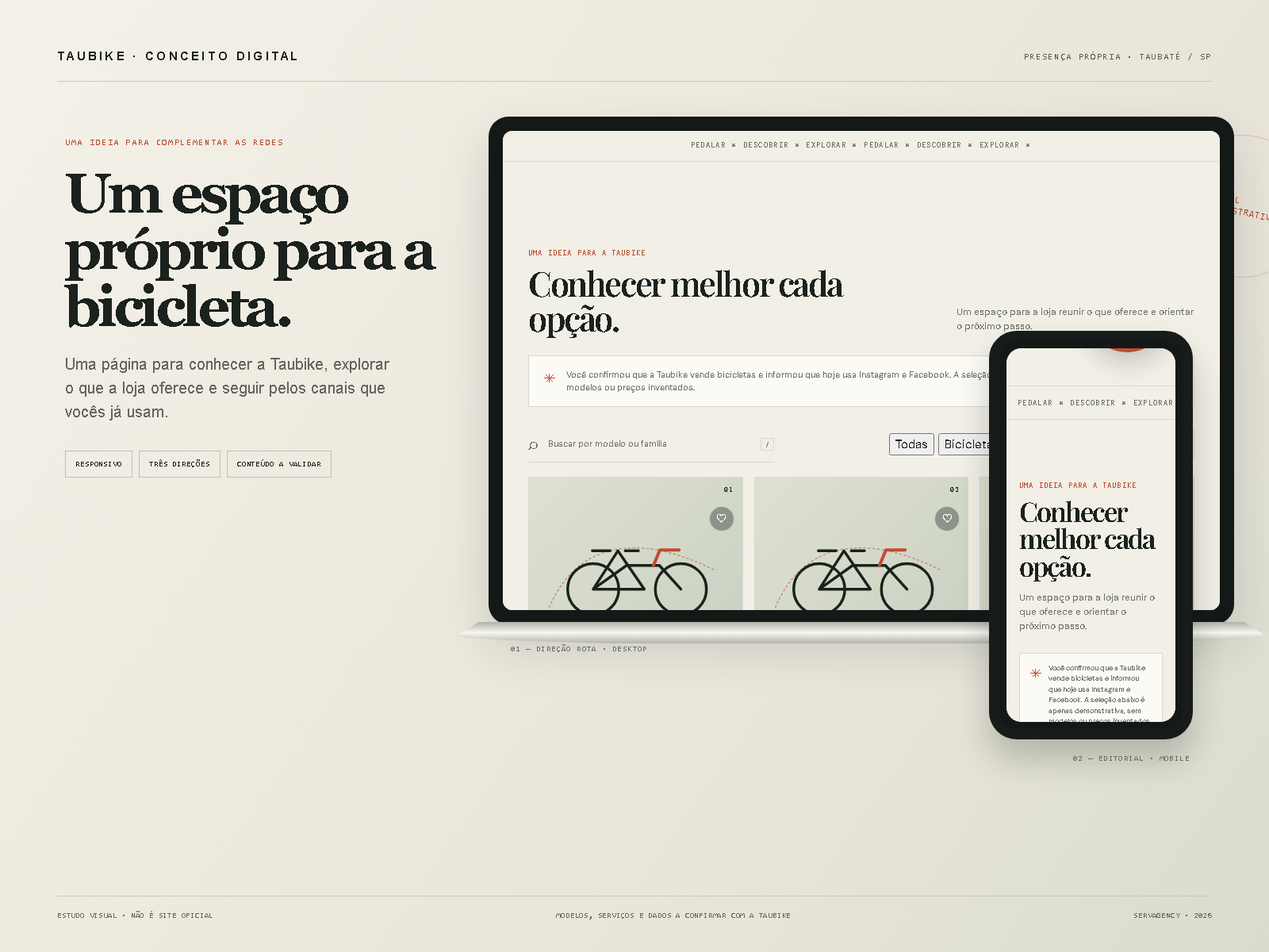
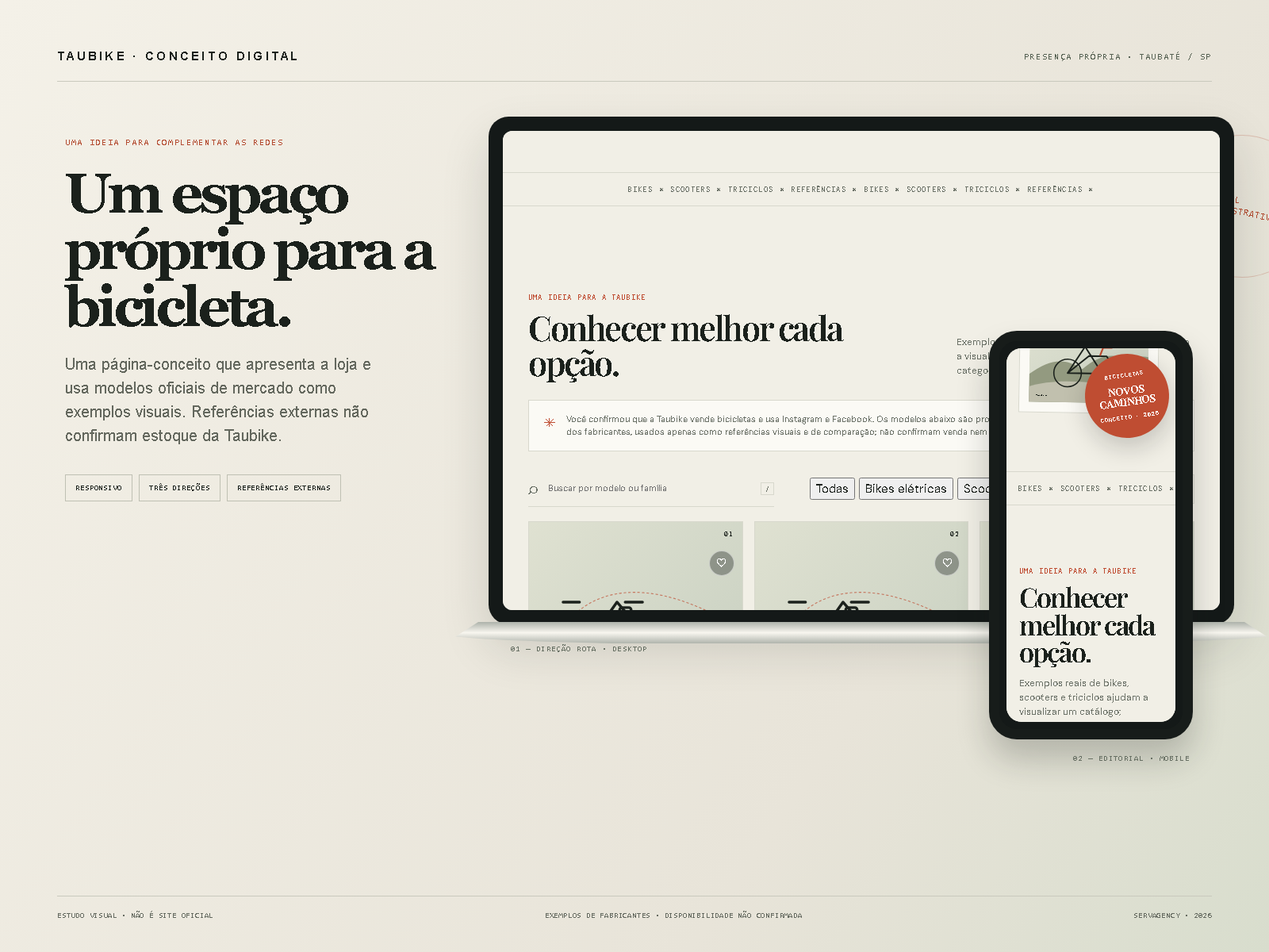
Add researched electric mobility references

diff --git a/app.js b/app.js
@@ -9,36 +9,51 @@
   const directions = isElite ? ['01 · EDITORIAL', '02 · PULSE', '03 · ESSENCIAL'] : ['01 · ROTA', '02 · CAMPO', '03 · EDITORIAL'];
   const title = isElite ? 'Elétrica.\nFeita para\no seu ritmo.' : 'Uma cidade\ninteira pela\nfrente.';
   const intro = isElite
-    ? 'Um espaço claro para conhecer as bikes elétricas e continuar a conversa com a equipe.'
-    : 'Uma ideia de espaço próprio para conhecer a Taubike e explorar as bicicletas da loja.';
+    ? 'Explore as bikes do catálogo e conheça outras categorias elétricas como referências de mercado.'
+    : 'Uma seleção de modelos reais de mobilidade elétrica para visualizar como um catálogo pode ajudar na escolha.';
   const products = isElite ? [
     { id:'falcon-pro', name:'Falcon Pro', family:'Linha Falcon', image:'assets/catalogo/falcon-pro.jpg', type:'BIKE ELÉTRICA · OFF-ROAD', price:'R$ 39.990', power:'5.000 W', speed:'95 km/h', range:'Até 120 km', battery:'72V · 35Ah', details:'No catálogo enviado: display HD multifunção, freios a disco hidráulicos, NFC, proteção IP67 e recarga informada de 3 a 4 horas.', page:'04' },
     { id:'v29-pro', name:'V29 Pro', family:'Linha V', image:'assets/catalogo/v29-pro.jpg', type:'BIKE ELÉTRICA · ARO 20 × 4', price:'R$ 9.790', power:'1.000 W', speed:'32 km/h', range:'Até 120 km', battery:'Dupla · 48V · 15,6Ah cada', details:'No catálogo enviado: display colorido, freios a disco hidráulicos, câmbio Shimano de 7 marchas e recarga informada de 5 a 8 horas.', page:'06' },
     { id:'v9-max-s', name:'V9 Max S', family:'Linha V', image:'assets/catalogo/v9-max-s.jpg', type:'BIKE ELÉTRICA · ARO 20 × 4', price:'R$ 9.790', power:'1.000 W', speed:'32 km/h', range:'Até 120 km', battery:'Dupla · 48V · 20Ah', details:'No catálogo enviado: display colorido, freios duplos hidráulicos, app Android/iOS, cartão NFC, alarme e cadeado.', page:'13' },
     { id:'y16', name:'Y16', family:'Outros modelos', image:'assets/catalogo/y16.jpg', type:'BIKE ELÉTRICA · ARO 16 × 4', price:'R$ 8.290', power:'750 W', speed:'25 km/h', range:'Até 84 km', battery:'Lítio · 15Ah', details:'No catálogo enviado: display LCD multifuncional, freios hidráulicos a óleo, cesto central, farol LED e proteção IP54.', page:'23' }
   ] : [
-    { id:'bike-01', name:'Bicicleta 01', family:'Bicicletas', type:'EXEMPLO VISUAL', price:'A confirmar', power:'A confirmar', speed:'A confirmar', range:'A confirmar', battery:'A confirmar', details:'Cartão demonstrativo. Nome, imagem e características devem vir do catálogo real da Taubike.', page:'—' },
-    { id:'bike-02', name:'Bicicleta 02', family:'Bicicletas', type:'EXEMPLO VISUAL', price:'A confirmar', power:'A confirmar', speed:'A confirmar', range:'A confirmar', battery:'A confirmar', details:'Cartão demonstrativo. Nome, imagem e características devem vir do catálogo real da Taubike.', page:'—' },
-    { id:'bike-03', name:'Bicicleta 03', family:'Bicicletas', type:'EXEMPLO VISUAL', price:'A confirmar', power:'A confirmar', speed:'A confirmar', range:'A confirmar', battery:'A confirmar', details:'Cartão demonstrativo. Nome, imagem e características devem vir do catálogo real da Taubike.', page:'—' }
+    { id:'e-vibe-lift', name:'Caloi E-Vibe Lift', family:'Bikes elétricas', type:'E-MTB ELÉTRICA', price:'', power:'500 W', speed:'Até 45 km/h', range:'Até 100 km*', battery:'48V · até 940Wh', details:'A página oficial informa motor de 500W, bateria principal de 705Wh e bateria extra de 235Wh. A autonomia de até 100 km é indicada pela Caloi conforme condições de teste e combinação das baterias.', sourceName:'Caloi', sourceUrl:'https://caloi.com/produto/e-vibe-lift/', shape:'bike', reference:true },
+    { id:'watts-bw3', name:'Watts BW3', family:'Bikes elétricas', type:'E-BIKE DOBRÁVEL', price:'', power:'1.000 W', speed:'Até 32 km/h', range:'Até 43 km*', battery:'Lítio · 10,4Ah', details:'A página oficial descreve uma e-bike dobrável aro 20, com bateria removível de 10,4Ah. A autonomia máxima informada é 43 km em pedal assistido; consulte a fabricante para condições e versão.', sourceName:'Watts', sourceUrl:'https://www.wattsmobilidade.com.br/produto-bw3', shape:'bike', reference:true },
+    { id:'watts-w1', name:'Watts W1', family:'Scooters elétricas', type:'SCOOTER ELÉTRICA', price:'', power:'2.000 W', speed:'Consulte fabricante', range:'Até 40 km*', battery:'Removível · bivolt', details:'A fabricante informa motor de 2.000W, bateria removível e autonomia de até 40 km por carga. A página também indica capacidade de carga de até 200 kg; confirme as especificações da versão atual.', sourceName:'Watts', sourceUrl:'https://www.wattsmobilidade.com.br/scooter-watts-w1-inglaterra-2000w-15a-40km-velmax-45kmh', shape:'scooter', reference:true },
+    { id:'shineray-pt3-m1', name:'Shineray PT3 M1', family:'Scooters elétricas', type:'SCOOTER ELÉTRICA · 2 LUGARES', price:'', power:'1.000 W', speed:'Até 32 km/h', range:'Até 40 km*', battery:'Íon-lítio · 60V · 20Ah', details:'A Shineray apresenta a PT3 M1 como scooter elétrica para duas pessoas. A autonomia de até 40 km é indicada em condições favoráveis e no modo de condução I.', sourceName:'Shineray', sourceUrl:'https://www.shineray.com.br/produto/pt3-m1/', shape:'scooter', reference:true },
+    { id:'shineray-pt3', name:'Shineray PT3 Triciclo', family:'Triciclos elétricos', type:'TRICICLO ELÉTRICO', price:'', power:'2.000 W', speed:'Até 45 km/h', range:'Até 40 km por bateria*', battery:'Lítio · 60V · 20Ah', details:'A página oficial indica bateria removível de 60V/20Ah, autonomia estimada de até 40 km por bateria e capacidade para uma segunda bateria. Dados sujeitos à versão e às condições de uso.', sourceName:'Shineray', sourceUrl:'https://www.shineray.com.br/produto/pt3-triciclo/', shape:'tricycle', reference:true }
   ];
+  const marketReferences = isElite ? [
+    { name:'Watts BW3', category:'E-bike dobrável', specs:'1.000 W · até 43 km · até 32 km/h', description:'Referência externa para uma categoria dobrável, não confirmada no estoque da Elite.', sourceName:'Watts', sourceUrl:'https://www.wattsmobilidade.com.br/produto-bw3', shape:'bike' },
+    { name:'Watts W1', category:'Scooter elétrica', specs:'2.000 W · até 40 km por carga', description:'Exemplo de outra categoria de mobilidade; não representa produto anunciado pela Elite.', sourceName:'Watts', sourceUrl:'https://www.wattsmobilidade.com.br/scooter-watts-w1-inglaterra-2000w-15a-40km-velmax-45kmh', shape:'scooter' },
+    { name:'Shineray PT3 Triciclo', category:'Triciclo elétrico', specs:'2.000 W · até 45 km/h · até 40 km por bateria', description:'Referência pública para mostrar uma opção de três rodas; não confirmada como produto da Elite.', sourceName:'Shineray', sourceUrl:'https://www.shineray.com.br/produto/pt3-triciclo/', shape:'tricycle' }
+  ] : [];
   const familyFilters = isElite
     ? [['all','Todos'],['Linha Falcon','Linha Falcon'],['Linha V','Linha V'],['Outros modelos','Outros']]
-    : [['all','Todas'],['Bicicletas','Bicicletas']];
+    : [['all','Todas'],['Bikes elétricas','Bikes elétricas'],['Scooters elétricas','Scooters'],['Triciclos elétricos','Triciclos']];
+  const illustration = (shape='bike') => {
+    const drawings = {
+      bike:'<circle cx="118" cy="166" r="47"/><circle cx="310" cy="166" r="47"/><path d="m118 166 52-74 64 74H118l69-48h70l53 48m-222-74h-36m136 0h38"/><rect x="176" y="104" width="25" height="38" rx="5" class="battery"/>',
+      scooter:'<circle cx="111" cy="178" r="30"/><circle cx="305" cy="178" r="30"/><path d="M111 178h131l31-37h39m-102 37 7-93h45l37 93m-90-93h48m-70 93h-30"/><path d="M194 171h73l-14 12h-59z" class="battery"/>',
+      tricycle:'<circle cx="92" cy="178" r="27"/><circle cx="274" cy="178" r="27"/><circle cx="350" cy="178" r="27"/><path d="M92 178h145l37-78h58l18 78m-134 0 51-78h52m-102 0h58"/><path d="M183 84h88v45h-88z" class="battery"/>'
+    };
+    return `<svg viewBox="0 0 420 250" aria-hidden="true"><path class="orbit" d="M22 201C83 55 221 37 385 120"/>${drawings[shape]||drawings.bike}</svg>`;
+  };
   const filterButtons = familyFilters.map(([value,label], index) => `<button type="button" class="filter${index===0?' active':''}" data-filter="${value}" aria-pressed="${index===0}">${label}</button>`).join('');
   const cards = products.map((product,index) => `<article class="product-card" data-id="${product.id}" data-family="${product.family}" data-search="${`${product.name} ${product.family} ${product.type}`.toLocaleLowerCase('pt-BR')}">
-    <div class="product-visual ${product.image?'has-image':''}">${product.image?`<img src="${product.image}" alt="${product.name}, imagem do catálogo enviado pela Elite Mogi" loading="lazy">`:`<svg viewBox="0 0 420 250" aria-hidden="true"><path class="orbit" d="M22 201C83 55 221 37 385 120"/><circle cx="118" cy="161" r="56"/><circle cx="310" cy="161" r="56"/><path class="frame" d="m118 161 54-84 58 84H118l73-52h72l47 52m-155-84h-39m72 0h29"/><path class="detail" d="m250 109 14-34h42"/></svg>`}<span class="art-label">${product.image?'FOTO DO CATÁLOGO':'ILUSTRAÇÃO · EXEMPLO'}</span><span class="product-number">0${index+1}</span><button class="favorite" type="button" aria-label="Favoritar ${product.name}" aria-pressed="false">♡</button></div>
-    <div class="product-info"><div class="product-meta"><span>${product.type}</span><span>${product.image?'CATÁLOGO · PÁG. '+product.page:'A CONFIRMAR'}</span></div><h3>${product.name}</h3><div class="quick-specs"><span><small>POTÊNCIA</small><b>${product.power}</b></span><span><small>AUTONOMIA*</small><b>${product.range}</b></span></div><div class="product-bottom"><div><small>PREÇO NO CATÁLOGO</small><strong>${product.price}</strong></div><button type="button" class="detail-button" aria-label="Ver detalhes de ${product.name}">Ver detalhes ↗</button></div><button type="button" class="compare-check" aria-pressed="false">＋ Comparar</button></div>
+    <div class="product-visual ${product.image?'has-image':''}">${product.image?`<img src="${product.image}" alt="${product.name}, imagem do catálogo enviado pela Elite Mogi" loading="lazy">`:`${illustration(product.shape)}`}<span class="art-label">${product.image?'FOTO DO CATÁLOGO':'ILUSTRAÇÃO · REFERÊNCIA DE MERCADO'}</span><span class="product-number">0${index+1}</span><button class="favorite" type="button" aria-label="Favoritar ${product.name}" aria-pressed="false">♡</button></div>
+    <div class="product-info"><div class="product-meta"><span>${product.type}</span><span>${product.image?'CATÁLOGO · PÁG. '+product.page:'REFERÊNCIA · '+product.sourceName}</span></div><h3>${product.name}</h3><div class="quick-specs"><span><small>POTÊNCIA</small><b>${product.power}</b></span><span><small>AUTONOMIA*</small><b>${product.range}</b></span></div><div class="product-bottom"><div><small>${product.image?'PREÇO NO CATÁLOGO':'VALOR'}</small><strong>${product.image?product.price:'Consultar fabricante'}</strong></div><button type="button" class="detail-button" aria-label="Ver detalhes de ${product.name}">Ver detalhes ↗</button></div><button type="button" class="compare-check" aria-pressed="false">＋ Comparar</button>${product.sourceUrl?`<a class="source-link" href="${product.sourceUrl}" target="_blank" rel="noopener noreferrer">Fonte oficial · ${product.sourceName} ↗</a>`:''}</div>
   </article>`).join('');
-
+  const marketCards = marketReferences.map(product => `<article class="reference-card"><div class="reference-visual">${illustration(product.shape)}<span>REFERÊNCIA EXTERNA · NÃO CONFIRMADA NO ESTOQUE ELITE</span></div><div class="reference-copy"><p class="eyebrow">${product.category}</p><h3>${product.name}</h3><strong>${product.specs}</strong><p>${product.description}</p><a href="${product.sourceUrl}" target="_blank" rel="noopener noreferrer">Ver fonte oficial · ${product.sourceName} ↗</a></div></article>`).join('');
   app.innerHTML = `
     <div class="concept-bar"><span><i></i> CONCEITO VISUAL · NÃO É SITE OFICIAL</span><div class="directions" role="group" aria-label="Escolher direção visual">${directions.map((d,i)=>`<button type="button" data-theme="${i}" aria-pressed="${i===0}">${d}</button>`).join('')}</div></div>
-    <div class="concept-note"><strong>PRÉVIA DEMONSTRATIVA</strong><span>${isElite?'Fotos e informações transcritas do catálogo enviado · preço e estoque a confirmar':'Produtos e características são exemplos · conteúdo real a confirmar com a loja'}</span></div>
+    <div class="concept-note"><strong>PRÉVIA DEMONSTRATIVA</strong><span>${isElite?'Catálogo enviado pela Elite + referências externas identificadas separadamente · preço e estoque a confirmar':'Referências reais de fabricantes · disponibilidade na Taubike não confirmada'}</span></div>
     <header class="site-header"><a href="#top" class="wordmark">${brand}<sup>®</sup></a><nav aria-label="Navegação"><a href="#modelos">${isElite?'Modelos':'Bicicletas'}</a><a href="#ideia">A ideia</a><a href="#contato">Contato</a></nav><a class="social-link" href="${instagram}" target="_blank" rel="noreferrer">Instagram <span>↗</span></a><button class="menu-button" aria-label="Abrir menu" aria-expanded="false">☰</button></header>
     <main id="top">
-      <section class="hero"><div class="hero-copy"><div class="hero-kicker"><span>UMA PÁGINA PRÓPRIA</span><span>${city}</span></div><p class="eyebrow">${isElite?'MOBILIDADE ELÉTRICA':'BICICLETARIA'}</p><h1>${title.replaceAll('\n','<br>')}</h1><p class="hero-intro">${intro}</p><div class="hero-actions"><a href="#modelos" class="button dark">${isElite?'Explorar modelos':'Explorar bicicletas'} <span>↘</span></a><a href="${instagram}" class="button outline" target="_blank" rel="noreferrer">Acessar Instagram <span>↗</span></a></div><div class="hero-caption"><span>✳</span><span>${isElite?'A equipe ajuda a comparar e confirmar cada modelo.':'Instagram e Facebook seguem ligados ao atendimento da loja.'}</span></div></div>
+      <section class="hero"><div class="hero-copy"><div class="hero-kicker"><span>UMA PÁGINA PRÓPRIA</span><span>${city}</span></div><p class="eyebrow">${isElite?'MOBILIDADE ELÉTRICA':'BICICLETARIA · REFERÊNCIAS DE MOBILIDADE'}</p><h1>${title.replaceAll('\n','<br>')}</h1><p class="hero-intro">${intro}</p><div class="hero-actions"><a href="#modelos" class="button dark">${isElite?'Explorar modelos':'Explorar referências'} <span>↘</span></a><a href="${instagram}" class="button outline" target="_blank" rel="noreferrer">Acessar Instagram <span>↗</span></a></div><div class="hero-caption"><span>✳</span><span>${isElite?'A equipe ajuda a comparar e confirmar cada modelo.':'Redes sociais da loja e exemplos de fabricantes aparecem em áreas distintas.'}</span></div></div>
         <div class="hero-scene"><div class="scene-frame"><svg viewBox="0 0 760 550" role="img" aria-label="Ilustração conceitual de uma bicicleta"><defs><linearGradient id="backdrop" x1="0" y1="0" x2="1" y2="1"><stop offset="0" stop-color="var(--scene-a)"/><stop offset="1" stop-color="var(--scene-b)"/></linearGradient></defs><rect width="760" height="550" fill="url(#backdrop)"/><circle class="sun" cx="574" cy="118" r="55"/><path class="hills" d="M0 373c130-96 222-111 339-36 104-98 216-114 303-55 47-31 83-37 118-28v296H0Z"/><path class="ground" d="M0 453c161-55 397-47 760 17v80H0Z"/><g class="bike"><circle cx="245" cy="363" r="88"/><circle cx="559" cy="363" r="88"/><path d="m245 363 109-170 113 170H245l135-111h113l66 111m-277-170h-69m164 0h45"/><path class="bike-accent" d="m452 244 18-47h55"/></g><text x="43" y="62" class="scene-label">${isElite?'ELITE · 01':'TAUBIKE · 01'}</text><text x="43" y="510" class="scene-sub">${city}</text></svg><span class="scene-index">FIG. 01 · ILUSTRAÇÃO DE CONCEITO</span></div><div class="roundel"><small>${isElite?'CATÁLOGO':'BICICLETAS'}</small><b>${isElite?'ESCOLHA\nCOM CALMA':'NOVOS\nCAMINHOS'}</b><small>CONCEITO · 2026</small></div></div></section>
-      <div class="ticker" aria-hidden="true">${isElite?'DESCOBRIR ✳ COMPARAR ✳ CONVERSAR ✳ ':'PEDALAR ✳ DESCOBRIR ✳ EXPLORAR ✳ '.repeat(2)}</div>
-      <section class="models" id="modelos"><div class="section-top"><div><p class="eyebrow">${isElite?'A PARTIR DO CATÁLOGO COMPARTILHADO':'UMA IDEIA PARA A TAUBIKE'}</p><h2>${isElite?'Apresentar. Comparar. Perguntar.':'Conhecer melhor cada opção.'}</h2></div><p>${isElite?'Explore modelos do material enviado e prepare uma consulta mais objetiva com a equipe.':'Um espaço para a loja reunir o que oferece e orientar o próximo passo.'}</p></div><div class="factual-note"><span>✳</span><p>${isElite?'Imagens e dados desta seleção foram transcritos do catálogo PDF recebido em 27/10/2026. Preços e condições constam da edição identificada como novembro de 2026; confirme com a equipe antes de divulgar como oferta atual.':'Você confirmou que a Taubike vende bicicletas e informou que hoje usa Instagram e Facebook. A seleção abaixo é apenas demonstrativa, sem modelos ou preços inventados.'}</p></div><div class="catalog-tools"><label class="search"><span aria-hidden="true">⌕</span><input type="search" id="search" placeholder="Buscar por modelo ou família" aria-label="Buscar modelos"><kbd>/</kbd></label><div class="filters" role="group" aria-label="Filtrar por família">${filterButtons}</div><button type="button" class="compare-open" id="compare-open">Comparar <span id="compare-count">0</span></button></div><div class="product-grid" id="product-grid">${cards}</div><p class="fine-print">${isElite?'*Autonomia indicada no catálogo; alcance real varia com condições de uso. Confirme preço, versão, estoque e condições com a loja.':'Os cartões são exemplos de estrutura, não representam modelos reais da Taubike.'}</p></section>
+      <div class="ticker" aria-hidden="true">${isElite?'DESCOBRIR ✳ COMPARAR ✳ CONVERSAR ✳ ':'BIKES ✳ SCOOTERS ✳ TRICICLOS ✳ REFERÊNCIAS ✳ '.repeat(2)}</div>
+      <section class="models" id="modelos"><div class="section-top"><div><p class="eyebrow">${isElite?'A PARTIR DO CATÁLOGO COMPARTILHADO':'UMA IDEIA PARA A TAUBIKE'}</p><h2>${isElite?'Apresentar. Comparar. Perguntar.':'Conhecer melhor cada opção.'}</h2></div><p>${isElite?'Explore o catálogo enviado pela equipe e compare opções com referências públicas de outras categorias.':'Exemplos reais de bikes, scooters e triciclos ajudam a visualizar um catálogo; confirme com a loja quais categorias oferece.'}</p></div><div class="factual-note"><span>✳</span><p>${isElite?'Os quatro modelos principais vêm do PDF compartilhado pela Elite em 27/10/2026. Preços e condições aparecem na edição identificada como novembro de 2026; confirme versão, estoque e validade com a equipe.':'Você confirmou que a Taubike vende bicicletas e usa Instagram e Facebook. Os modelos abaixo são produtos reais encontrados nas páginas oficiais dos fabricantes, usados apenas como referências visuais e de comparação; não confirmam venda nem disponibilidade na Taubike.'}</p></div><div class="catalog-tools"><label class="search"><span aria-hidden="true">⌕</span><input type="search" id="search" placeholder="Buscar por modelo ou família" aria-label="Buscar modelos"><kbd>/</kbd></label><div class="filters" role="group" aria-label="Filtrar por família">${filterButtons}</div><button type="button" class="compare-open" id="compare-open">Comparar <span id="compare-count">0</span></button></div><div class="product-grid" id="product-grid">${cards}</div><p class="fine-print">${isElite?'Autonomias e especificações foram transcritas do catálogo recebido; alcance real e oferta devem ser confirmados com a loja.':'Especificações e autonomias são divulgadas pelos fabricantes e variam por versão e condições de uso. As referências não indicam estoque da Taubike.'}</p>${marketReferences.length?`<section class="market-references"><div class="section-top"><div><p class="eyebrow">PARA AMPLIAR A COMPARAÇÃO</p><h2>Outras categorias elétricas.</h2></div><p>Exemplos pesquisados em páginas oficiais. Não fazem parte do catálogo enviado pela Elite nem confirmam estoque.</p></div><div class="reference-grid">${marketCards}</div></section>`:''}</section>
       <section class="story" id="ideia"><div class="story-inner"><div class="story-mark">${isElite?'E':'T'}</div><div class="story-copy"><p class="eyebrow">COMPLEMENTA OS CANAIS ATUAIS</p><h2>${isElite?'A página ajuda na descoberta. A equipe segue junto na decisão.':'Instagram e Facebook continuam fazendo parte da experiência.'}</h2><p>${isElite?'Uma apresentação própria pode organizar os modelos e encaminhar uma consulta contextualizada, preservando o atendimento da equipe.':'A proposta é criar um ponto central para apresentar a loja e conduzir o visitante aos canais que vocês já utilizam.'}</p><a href="${instagram}" target="_blank" rel="noreferrer">Ver Instagram <span>↗</span></a></div><div class="steps"><div><b>01</b><span>Descobrir a loja</span></div><div><b>02</b><span>Explorar opções</span></div><div><b>03</b><span>Continuar a conversa</span></div></div></div></section>
       <section class="contact" id="contato"><div><p class="eyebrow">UM ESPAÇO PRÓPRIO, LIGADO À LOJA</p><h2>O próximo passo fica simples.</h2><p>${isElite?'Escolha opções e fale com a equipe para confirmar os detalhes.':'Conheça a ideia e siga pelo Instagram da Taubike.'}</p></div><div class="contact-card"><span>${city}</span><h3>${brand}</h3><p>${isElite?'Catálogo recebido; confirmar modelos, preços e disponibilidade com a equipe.':'Conceito preparado a partir da confirmação de que a Taubike vende bicicletas.'}</p><a class="button dark" href="${isElite?whatsapp:instagram}" target="_blank" rel="noreferrer">${isElite?'Consultar pelo WhatsApp':'Continuar no Instagram'} <span>↗</span></a><small>${isElite?'Número de WhatsApp publicado no catálogo; envio da mensagem depende da pessoa.':'Perfil informado na conversa.'}</small></div></section>
     </main>
@@ -87,7 +102,7 @@
       button.textContent = chosen ? '✓ Na comparação' : '＋ Comparar';
     });
     const chosenProducts = products.filter(product => selected.has(product.id));
-    document.querySelector('#compare-content').innerHTML = chosenProducts.length ? `<div class="compare-table"><div class="compare-row compare-head-row"><b>MODELO</b>${chosenProducts.map(product=>`<b>${product.name}</b>`).join('')}</div>${[['PREÇO','price'],['POTÊNCIA','power'],['VELOCIDADE INDICADA','speed'],['AUTONOMIA INDICADA','range'],['BATERIA','battery']].map(([label,key])=>`<div class="compare-row"><span>${label}</span>${chosenProducts.map(product=>`<span>${product[key]}</span>`).join('')}</div>`).join('')}</div>` : '<p class="empty-compare">Escolha até três modelos no catálogo para comparar.</p>';
+    document.querySelector('#compare-content').innerHTML = chosenProducts.length ? `<div class="compare-table"><div class="compare-row compare-head-row"><b>MODELO</b>${chosenProducts.map(product=>`<b>${product.name}</b>`).join('')}</div>${[['PREÇO','price'],['POTÊNCIA','power'],['VELOCIDADE INDICADA','speed'],['AUTONOMIA INDICADA','range'],['BATERIA','battery']].map(([label,key])=>`<div class="compare-row"><span>${label}</span>${chosenProducts.map(product=>`<span>${key==='price'&&product.reference?'Consultar fabricante':product[key]||'Não informado'}</span>`).join('')}</div>`).join('')}</div>` : '<p class="empty-compare">Escolha até três modelos no catálogo para comparar.</p>';
     const message = isElite ? `Olá! Gostaria de tirar uma dúvida sobre ${chosenProducts.map(product=>product.name).join(', ') || 'os modelos do catálogo'}.` : '';
     document.querySelector('#selection-contact').href = isElite ? `${whatsapp}?text=${encodeURIComponent(message)}` : instagram;
   };
@@ -115,8 +130,9 @@
   const dialogContent = document.querySelector('#dialog-content');
   document.querySelectorAll('.detail-button').forEach(button => button.addEventListener('click', () => {
     const product = products.find(item => item.id === button.closest('.product-card').dataset.id);
-    const imageMarkup = product.image ? `<img class="dialog-product-image" src="${product.image}" alt="${product.name}, foto do catálogo Elite Mogi">` : `<div class="dialog-illustration">BICICLETA · EXEMPLO VISUAL</div>`;
-    dialogContent.innerHTML = `<div class="dialog-layout">${imageMarkup}<div><p class="eyebrow">${product.type}</p><h2>${product.name}</h2><p class="dialog-price">${product.price}<small>${isElite?'valor indicado no catálogo · confirmar':'a confirmar com a loja'}</small></p><div class="dialog-specs"><div><span>Potência</span><b>${product.power}</b></div><div><span>Velocidade indicada</span><b>${product.speed}</b></div><div><span>Autonomia indicada</span><b>${product.range}</b></div><div><span>Bateria</span><b>${product.battery}</b></div></div><p class="dialog-description">${product.details}</p><p class="dialog-source">${isElite?`Fonte: catálogo enviado pela equipe, página ${product.page}. Confirme versão, preço, estoque e condições diretamente com a loja.`:'Exemplo demonstrativo; os dados reais precisam ser confirmados com a Taubike.'}</p><a class="button dark" href="${isElite?`${whatsapp}?text=${encodeURIComponent(`Olá! Gostaria de saber mais sobre ${product.name}.`)}`:instagram}" target="_blank" rel="noreferrer">${isElite?'Perguntar sobre este modelo':'Acessar Instagram'} <span>↗</span></a></div></div>`;
+    const imageMarkup = product.image ? `<img class="dialog-product-image" src="${product.image}" alt="${product.name}, foto do catálogo Elite Mogi">` : `<div class="dialog-illustration">ILUSTRAÇÃO DE REFERÊNCIA</div>`;
+    const productSource = product.sourceUrl ? `<a href="${product.sourceUrl}" target="_blank" rel="noopener noreferrer">Fonte oficial: ${product.sourceName} ↗</a>` : `Fonte: catálogo enviado pela equipe, página ${product.page}.`;
+    dialogContent.innerHTML = `<div class="dialog-layout">${imageMarkup}<div><p class="eyebrow">${product.type}</p><h2>${product.name}</h2><p class="dialog-price">${product.reference?'Preço não incluído':product.price}<small>${product.reference?'consulte o fabricante; referência externa, não confirma estoque':isElite?'valor indicado no PDF recebido · confirmar validade':'a confirmar com a loja'}</small></p><div class="dialog-specs"><div><span>Potência</span><b>${product.power}</b></div><div><span>Velocidade indicada</span><b>${product.speed}</b></div><div><span>Autonomia indicada</span><b>${product.range}</b></div><div><span>Bateria</span><b>${product.battery}</b></div></div><p class="dialog-description">${product.details}</p><p class="dialog-source">${product.reference?'Referência de mercado pesquisada em página oficial. Não confirma venda ou disponibilidade na loja. ':isElite?`Confirme versão, preço, estoque e condições diretamente com a equipe. `:'Referência de fabricante; disponibilidade na Taubike não confirmada. '}${productSource}</p><a class="button dark" href="${isElite?`${whatsapp}?text=${encodeURIComponent(`Olá! Gostaria de saber mais sobre ${product.name}.`)}`:instagram}" target="_blank" rel="noreferrer">${isElite?'Perguntar à Elite sobre o catálogo':'Acessar Instagram da Taubike'} <span>↗</span></a></div></div>`;
     dialog.showModal();
   }));
   document.querySelector('.dialog-close').addEventListener('click', () => dialog.close());

diff --git a/site.css b/site.css
@@ -7,3 +7,23 @@ body[data-theme="1"] .hero{grid-template-columns:.92fr 1.08fr}body[data-theme="1
 .catalog-tools{display:flex;align-items:center;justify-content:space-between;gap:16px;margin:15px 0 18px}.catalog-tools .search{margin:0;flex:1;max-width:310px}.filters{display:flex;gap:5px;flex-wrap:wrap}.compare-open{border:1px solid var(--line);background:transparent;padding:8px 11px;font:8px var(--mono);cursor:pointer}.compare-open span{display:inline-grid;place-items:center;background:var(--accent);color:#fff;width:19px;height:19px;border-radius:50%;margin-left:5px}.product-visual{height:240px;position:relative;display:grid;place-items:center;overflow:hidden;background:linear-gradient(135deg,var(--scene-a),var(--scene-b))}.product-visual>img{width:100%;height:100%;object-fit:cover;transition:transform .5s}.product-card:hover .product-visual>img{transform:scale(1.035)}.product-visual>svg{width:90%;max-height:200px;fill:none;stroke:var(--ink);stroke-width:6;stroke-linecap:round;stroke-linejoin:round}.product-visual .orbit{stroke:var(--accent);stroke-width:2;stroke-dasharray:4 6;opacity:.7}.product-visual .frame{stroke-width:6}.product-visual .detail{stroke:var(--accent);stroke-width:7}.product-number{position:absolute;right:11px;top:10px;font:8px var(--mono);color:#fff;text-shadow:0 1px 6px #000}.product-visual:not(.has-image) .product-number{color:var(--ink);text-shadow:none}.art-label{position:absolute;left:11px;bottom:10px;background:var(--surface);color:var(--ink);padding:5px 7px;font:7px var(--mono);letter-spacing:.08em}.favorite{position:absolute;right:10px;top:36px;width:32px;height:32px;border:1px solid #ffffff88;border-radius:50%;background:#171d195c;color:#fff;font-size:19px;line-height:1;cursor:pointer}.favorite[aria-pressed="true"]{background:#bf4d32;border-color:#bf4d32}.product-meta{display:flex;justify-content:space-between;gap:8px;color:var(--accent);font:7px var(--mono);letter-spacing:.08em}.product-info{padding:16px}.product-info h3{font:600 22px/1.12 var(--serif);letter-spacing:-.035em;margin:14px 0 13px}.quick-specs{display:grid;grid-template-columns:1fr 1fr;gap:8px;margin-bottom:14px}.quick-specs span{display:flex;flex-direction:column;gap:2px;border-top:1px solid var(--line);padding-top:8px}.quick-specs small,.product-bottom small{font:7px var(--mono);letter-spacing:.06em;color:var(--muted)}.quick-specs b{font:500 12px var(--sans)}.product-bottom{display:flex;justify-content:space-between;align-items:end;gap:8px}.product-bottom>div{display:flex;flex-direction:column;gap:4px}.product-bottom strong{font:700 15px var(--sans)}.detail-button{border:0;border-bottom:1px solid var(--accent);background:transparent;padding:4px 0;font:8px var(--mono);cursor:pointer}.compare-check{width:100%;border:1px solid var(--line);background:transparent;padding:9px 10px;margin-top:13px;text-align:left;font:8px var(--mono);cursor:pointer}.compare-check.selected{background:var(--ink);border-color:var(--ink);color:var(--paper)}.compare-dock{position:fixed;z-index:10;bottom:15px;left:50%;transform:translateX(-50%);display:flex;align-items:center;gap:12px;background:var(--ink);color:var(--paper);padding:9px 12px 9px 17px;box-shadow:0 12px 35px #1015103d;font:9px var(--mono);white-space:nowrap}.compare-dock[hidden],.compare-shade[hidden]{display:none}.compare-dock button{border:1px solid #788074;background:transparent;color:inherit;padding:7px 10px;font:8px var(--mono);cursor:pointer}.compare-dock button:last-child{border:0;font-size:17px;padding:2px 6px}.compare-shade{position:fixed;z-index:11;inset:0;background:#0b100dc2}.compare-panel{position:fixed;z-index:12;top:0;right:0;bottom:0;width:min(630px,100%);background:var(--surface);border-left:1px solid var(--line);padding:25px;transform:translateX(102%);transition:transform .25s ease;display:flex;flex-direction:column;overflow:auto}.compare-panel.open{transform:translateX(0)}.panel-head{display:flex;justify-content:space-between;align-items:start;border-bottom:1px solid var(--line);padding-bottom:17px}.panel-head small{font:8px var(--mono);color:var(--accent);letter-spacing:.12em}.panel-head h2{font:600 34px var(--serif);margin:8px 0 0}.panel-head button{border:1px solid var(--line);background:transparent;width:34px;height:34px;font-size:19px;cursor:pointer}.compare-content{overflow:auto;flex:1}.compare-table{margin-top:16px;min-width:450px}.compare-row{display:grid;grid-template-columns:120px repeat(3,minmax(90px,1fr));border-bottom:1px solid var(--line)}.compare-row>*{padding:12px 8px;font-size:10px}.compare-row>span:first-child{font:7px var(--mono);color:var(--muted);letter-spacing:.05em}.compare-head-row{color:var(--accent);font:8px var(--mono)}.empty-compare{padding:20px 0;color:var(--muted);font-size:12px}.panel-bottom{border-top:1px solid var(--line);padding-top:14px}.panel-bottom p{font-size:10px;color:var(--muted)}.panel-bottom .button{width:100%}.detail-dialog{width:min(850px,calc(100% - 30px));max-height:calc(100% - 30px);padding:30px;background:var(--surface);color:var(--ink);border:1px solid var(--line)}.detail-dialog::backdrop{background:#0b100dc4}.dialog-close{float:right;width:34px;height:34px;border:1px solid var(--line);background:transparent;font-size:20px;cursor:pointer}.dialog-layout{display:grid;grid-template-columns:.88fr 1fr;gap:28px;align-items:center}.dialog-product-image{width:100%;aspect-ratio:1/1;object-fit:cover}.dialog-illustration{aspect-ratio:1/1;display:grid;place-items:center;background:var(--scene-a);color:var(--muted);font:10px var(--mono)}.dialog-layout h2{font:600 42px var(--serif);margin:8px 0}.dialog-price{font:700 20px var(--sans);margin:0}.dialog-price small{display:block;font:8px var(--mono);color:var(--muted);margin-top:3px}.dialog-specs{display:grid;grid-template-columns:1fr 1fr;gap:9px 15px;margin:20px 0}.dialog-specs div{border-top:1px solid var(--line);padding-top:7px;display:flex;flex-direction:column;gap:3px}.dialog-specs span,.dialog-source{font:8px var(--mono);color:var(--muted)}.dialog-specs b{font-size:11px}.dialog-description{font-size:10px;color:var(--muted)}.dialog-source{line-height:1.6}.dialog-layout .button{margin-top:8px}.product-card[hidden]{display:none}
 @media(max-width:900px){.catalog-tools{flex-wrap:wrap}.catalog-tools .search{max-width:none;flex-basis:100%}.filters{flex:1}.product-visual{height:215px}}
 @media(max-width:600px){.catalog-tools{gap:10px}.filters{width:100%;order:2}.compare-open{order:3}.product-visual{height:225px}.product-info h3{font-size:21px}.compare-dock{bottom:8px;width:calc(100% - 16px);justify-content:space-between;gap:5px;padding:8px 10px;font-size:8px}.compare-dock button{font-size:7px}.compare-panel{padding:18px}.panel-head h2{font-size:29px}.compare-table{min-width:430px}.detail-dialog{padding:15px}.dialog-layout{grid-template-columns:1fr;gap:16px}.dialog-product-image,.dialog-illustration{max-height:265px;aspect-ratio:1.35/1;object-fit:cover}.dialog-layout h2{font-size:34px}.dialog-specs{margin:13px 0}}
+
+/* Market references: visually distinct from the store-confirmed catalog. */
+.market-references{margin-top:82px;padding-top:38px;border-top:1px solid var(--line)}
+.reference-grid{display:grid;grid-template-columns:repeat(3,minmax(0,1fr));gap:14px}
+.reference-card{background:var(--surface);border:1px solid var(--line);min-width:0}
+.reference-visual{height:190px;position:relative;display:grid;place-items:center;overflow:hidden;background:linear-gradient(135deg,var(--scene-a),var(--scene-b))}
+.reference-visual svg{width:88%;max-height:160px;fill:none;stroke:var(--ink);stroke-width:6;stroke-linecap:round;stroke-linejoin:round}
+.reference-visual .orbit{stroke:var(--accent);stroke-width:2;stroke-dasharray:4 6;opacity:.7}
+.reference-visual .battery{fill:var(--accent);stroke:none;opacity:.82}
+.reference-visual span{position:absolute;left:10px;right:10px;bottom:10px;padding:6px;background:var(--surface);font:7px var(--mono);letter-spacing:.05em;text-align:center}
+.reference-copy{padding:17px}
+.reference-copy .eyebrow{margin:0 0 9px}
+.reference-copy h3{font:600 22px/1.12 var(--serif);margin:0 0 9px}
+.reference-copy strong{font-size:11px}
+.reference-copy>p:not(.eyebrow){font-size:10px;color:var(--muted);line-height:1.55}
+.reference-copy>a,.source-link,.dialog-source a{display:inline-block;margin-top:6px;color:var(--accent);font:8px var(--mono);text-decoration:underline;text-underline-offset:3px}
+.source-link{margin:9px 0 0}
+.reference-card .reference-copy p{min-height:0}
+@media(max-width:900px){.reference-grid{grid-template-columns:repeat(2,minmax(0,1fr))}}
+@media(max-width:600px){.reference-grid{grid-template-columns:1fr}.reference-visual{height:215px}.market-references{margin-top:55px}}

diff --git a/arte/apresentacao.html b/arte/apresentacao.html
@@ -1,0 +1,1 @@
+<!doctype html><html lang="pt-BR"><head><meta charset="utf-8"><meta name="viewport" content="width=device-width,initial-scale=1"><title>Taubike — apresentação do conceito</title><style>*{box-sizing:border-box}body{margin:0;background:#e8e4d9;color:#1b211c;font-family:Arial,sans-serif}.board{width:1600px;height:1200px;padding:62px 72px;background:linear-gradient(125deg,#f4f1e8 0%,#e8e4d9 70%,#d8ddcd 100%);position:relative;overflow:hidden}.head{display:flex;justify-content:space-between;align-items:center;border-bottom:1px solid #c9c9bd;padding-bottom:22px}.brand{font-size:15px;letter-spacing:.22em;font-weight:bold}.tag{font:11px monospace;letter-spacing:.15em;color:#586354}.main{display:grid;grid-template-columns:500px 1fr;gap:44px;margin-top:44px}.intro{padding:26px 10px}.eyebrow{font:11px monospace;letter-spacing:.15em;color:#b44d32}.intro h1{font:600 70px/1.02 Georgia,serif;letter-spacing:-.06em;margin:22px 0}.intro p{font-size:20px;line-height:1.5;color:#64685e;max-width:410px}.chips{display:flex;gap:8px;margin-top:34px}.chips span{border:1px solid #bfc0b3;padding:10px 12px;font:10px monospace;letter-spacing:.09em}.screen-area{position:relative;height:830px}.laptop{position:absolute;left:0;top:0;width:940px;height:640px;background:#141918;border-radius:25px;padding:18px;box-shadow:0 28px 60px #171d1928}.laptop iframe{width:100%;height:100%;border:0;background:#f1efe6;border-radius:12px}.base{position:absolute;top:637px;left:-55px;width:1050px;height:30px;background:linear-gradient(#adb2aa,#f8f6ef 45%,#a0a69e);clip-path:polygon(4% 0,96% 0,100% 90%,0 90%);border-radius:0 0 50% 50%}.phone{position:absolute;right:24px;top:270px;width:257px;height:515px;border:13px solid #171c1a;border-radius:35px;background:#141918;padding:9px;box-shadow:0 25px 40px #171d1938}.phone iframe{width:100%;height:100%;border:0;border-radius:19px;background:#f1efe6}.phone-label,.desktop-label{font:10px monospace;letter-spacing:.14em;color:#687064}.desktop-label{position:absolute;top:665px;left:28px}.phone-label{position:absolute;right:28px;top:803px}.foot{position:absolute;left:72px;right:72px;bottom:40px;border-top:1px solid #c9c9bd;padding-top:18px;display:flex;justify-content:space-between;font:10px monospace;letter-spacing:.08em;color:#666b61}.mark{position:absolute;width:180px;height:180px;border:1px solid #b44d3240;border-radius:50%;right:-56px;top:170px;display:grid;place-items:center;color:#b44d32;font:12px monospace;transform:rotate(12deg)}</style></head><body><main class="board"><header class="head"><div class="brand">TAUBIKE · CONCEITO DIGITAL</div><div class="tag">PRESENÇA PRÓPRIA · TAUBATÉ / SP</div></header><div class="main"><section class="intro"><div class="eyebrow">UMA IDEIA PARA COMPLEMENTAR AS REDES</div><h1>Um espaço próprio para a bicicleta.</h1><p>Uma página-conceito que apresenta a loja e usa modelos oficiais de mercado como exemplos visuais. Referências externas não confirmam estoque da Taubike.</p><div class="chips"><span>RESPONSIVO</span><span>TRÊS DIREÇÕES</span><span>REFERÊNCIAS EXTERNAS</span></div><div class="mark">VISUAL<br>DEMONSTRATIVO</div></section><section class="screen-area"><div class="laptop"><iframe src="../index.html?theme=0&v=market-20261027#modelos" title="Prévia desktop do conceito Taubike"></iframe></div><div class="base"></div><div class="desktop-label">01 — DIREÇÃO ROTA · DESKTOP</div><div class="phone"><iframe src="../index.html?theme=2&v=market-20261027#modelos" title="Prévia mobile do conceito Taubike"></iframe></div><div class="phone-label">02 — EDITORIAL · MOBILE</div></section></div><footer class="foot"><span>ESTUDO VISUAL · NÃO É SITE OFICIAL</span><span>EXEMPLOS DE FABRICANTES · DISPONIBILIDADE NÃO CONFIRMADA</span><span>SERVAGENCY · 2026</span></footer></main></body></html>

diff --git a/index.html b/index.html
@@ -5,10 +5,10 @@
   <meta name="theme-color" content="#e9e6db">
   <meta name="description" content="Conceito demonstrativo para uma presença digital própria da Taubike. Produtos e serviços a confirmar com a loja.">
   <title>Taubike — conceito digital</title>
-  <link rel="stylesheet" href="site.css">
+  <link rel="stylesheet" href="site.css?v=market-20261027">
 </head>
 <body data-lead="taubike">
   <div id="app"></div>
-  <script src="app.js" defer></script>
+  <script src="app.js?v=market-20261027" defer></script>
 </body>
 </html>
